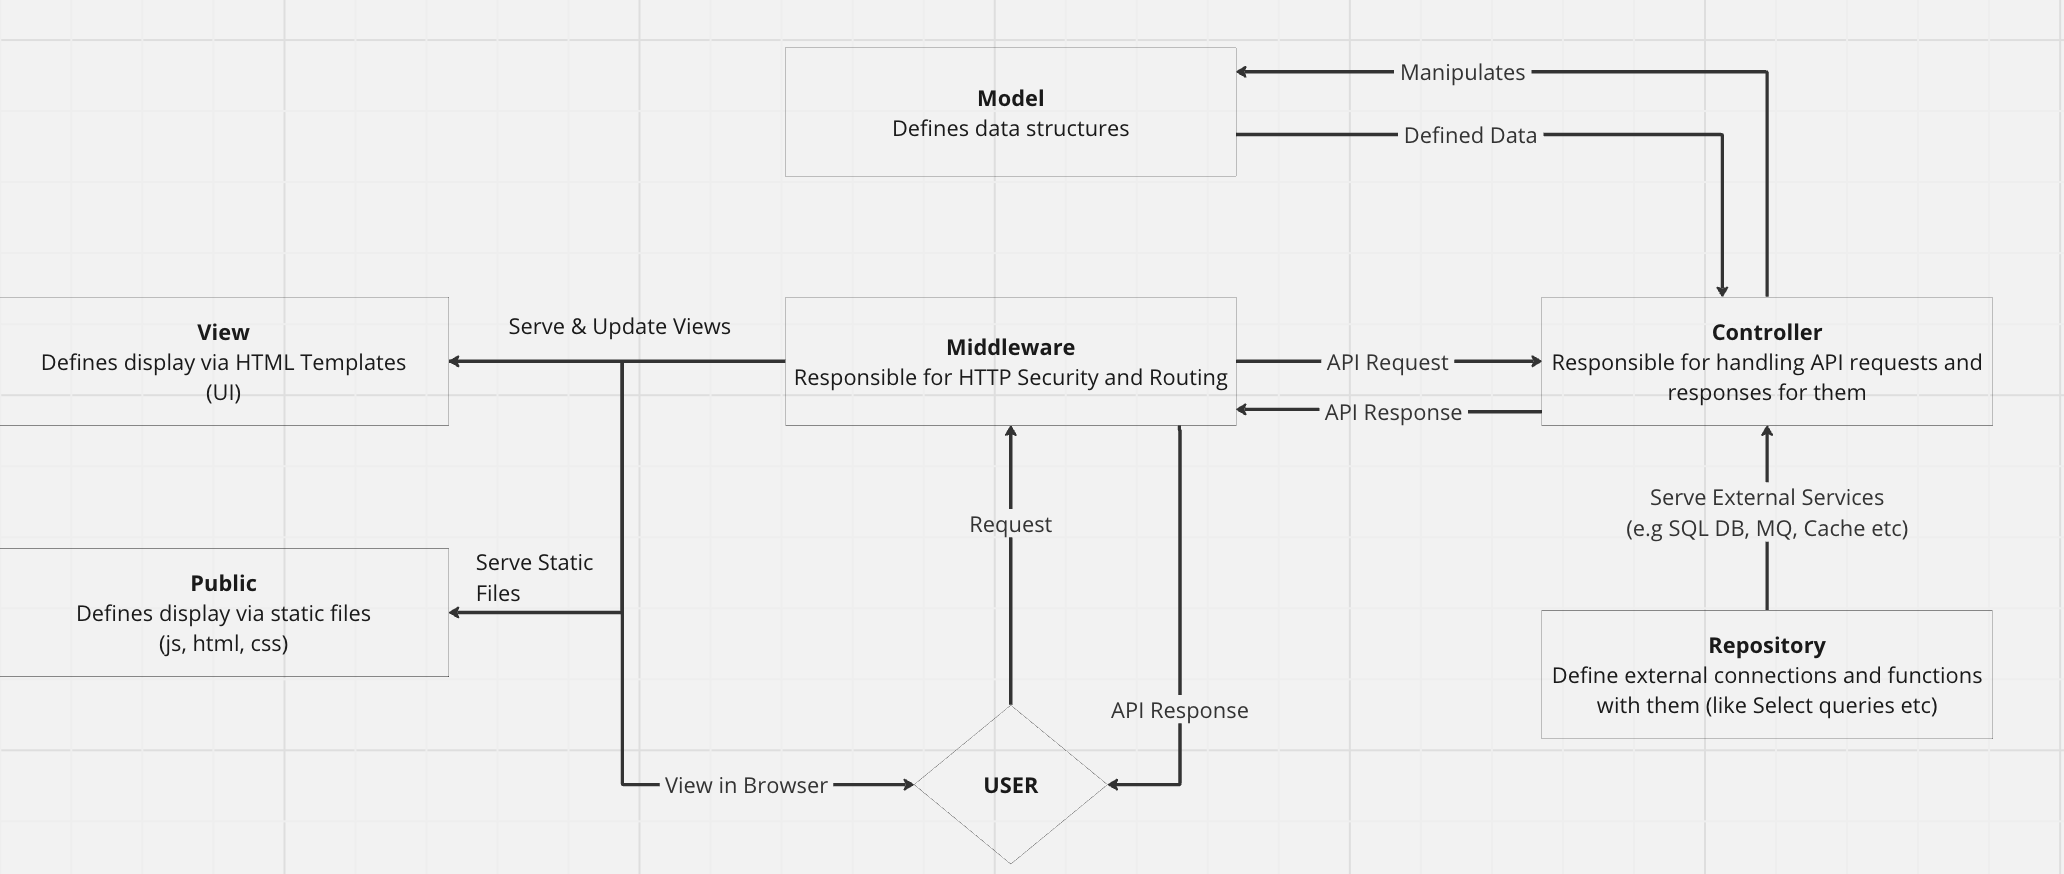
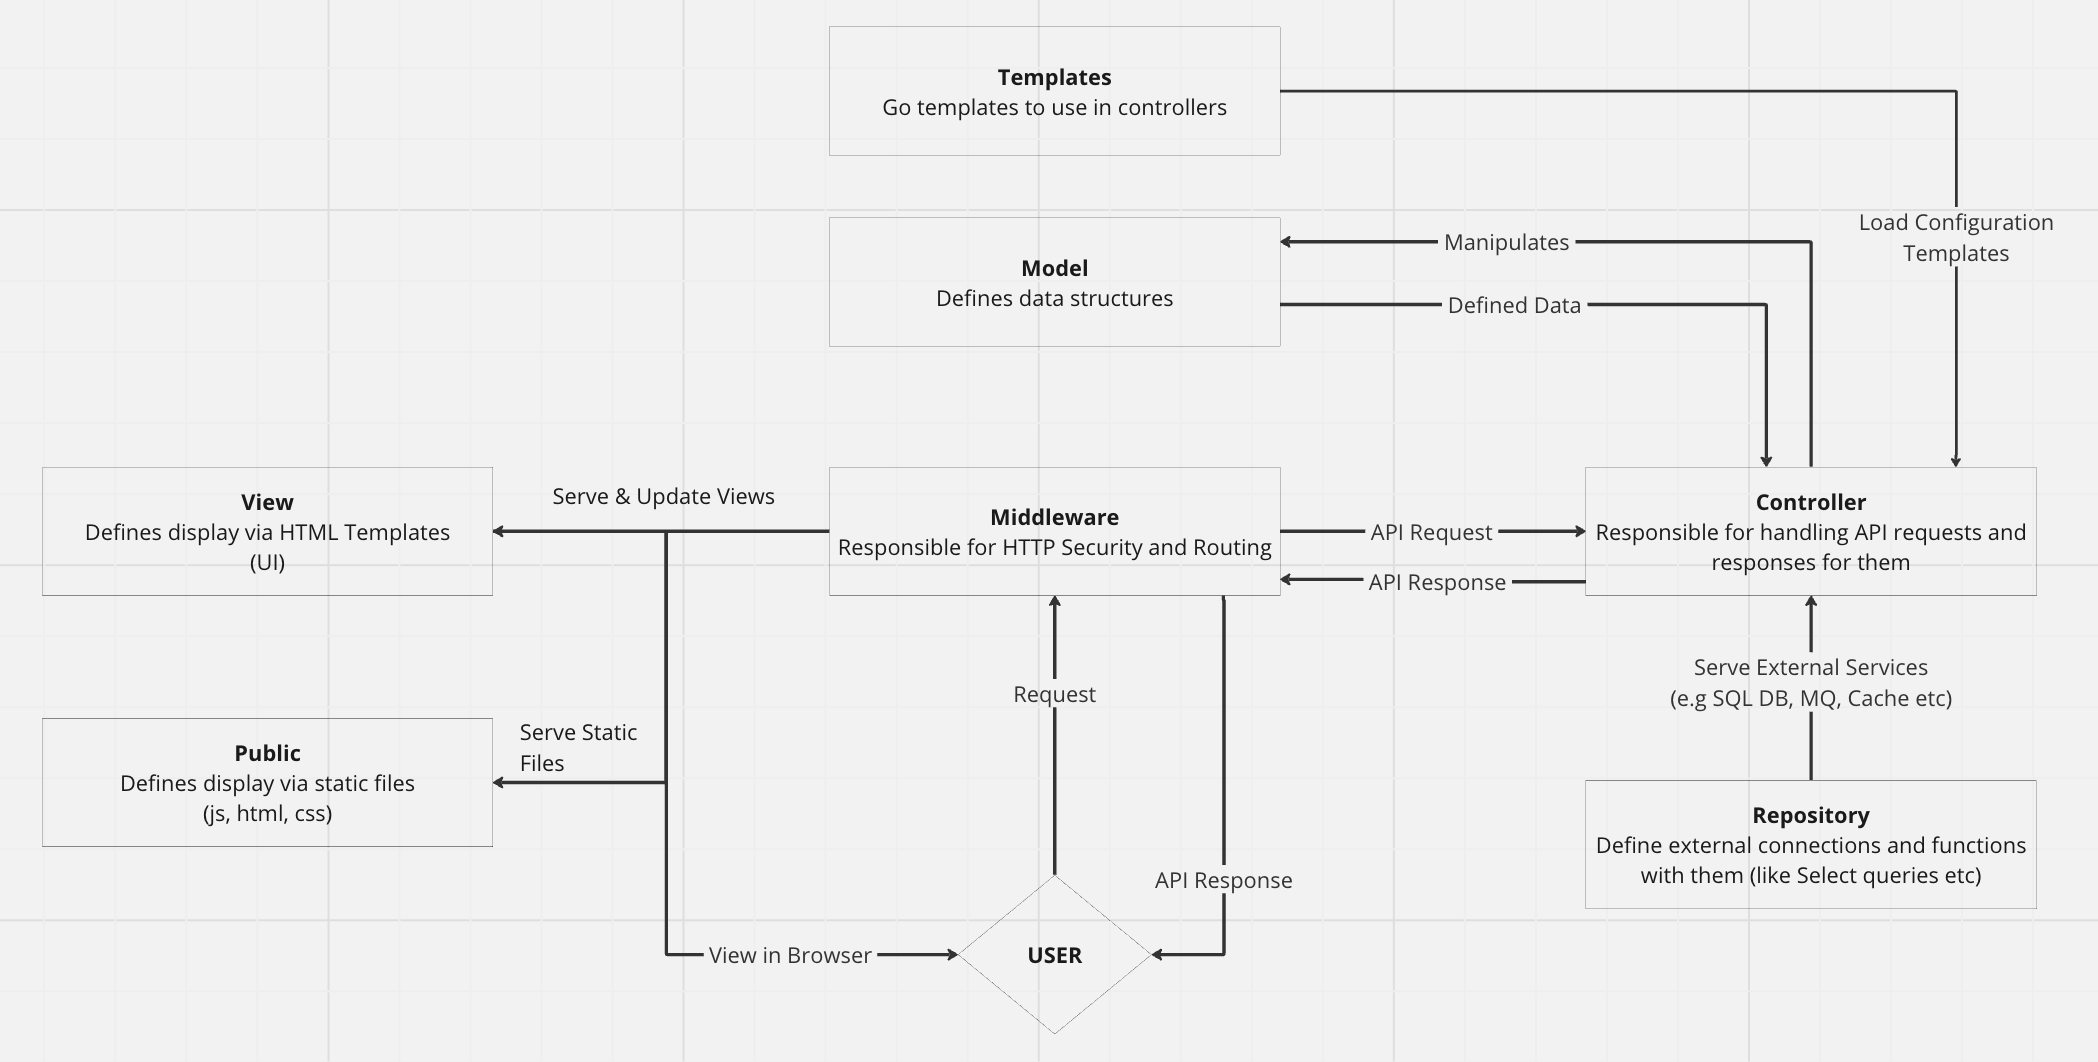
Changed a bit architecture, few fixes in readme

diff --git a/README.md b/README.md
@@ -26,7 +26,7 @@ Feel free to fork this repository as website boilerplate for your next project.
 ## Features
 
 - Container Compatible
-- Comprehensive and quite strict quality scan
+- Comprehensive code quality scan
 - Error Handling
 - Go Templates
 - Go Autoloader via Air
@@ -52,7 +52,7 @@ Feel free to fork this repository as website boilerplate for your next project.
 - `public` - View component (in MVC architecture) folder used to store static website.
 - `public/errors` - Error pages served by the web application
 - `repository`- Repository is a layer (in layered architecture) that connects the application to external services like databases, cache servers, etc.
-- `templates` - GO Templates
+- `templates` - GO Templates mostly contain dynamic configuration for the controller
 - `tests` - GO Unit Tests for the web application
 - `views` - View component (in MVC architecture) folder used to store HTML templates.
 
@@ -570,7 +570,7 @@ Percentage of the requests served within a certain time (ms)
 1. Clone the repository
 
 ```bash
-git clone git@github.com:KostLinux/example-go-web-app.git my-web-application
+git clone git@github.com:KostLinux/GoBlitz.git my-web-application
 ```
 
 2. Change the directory
